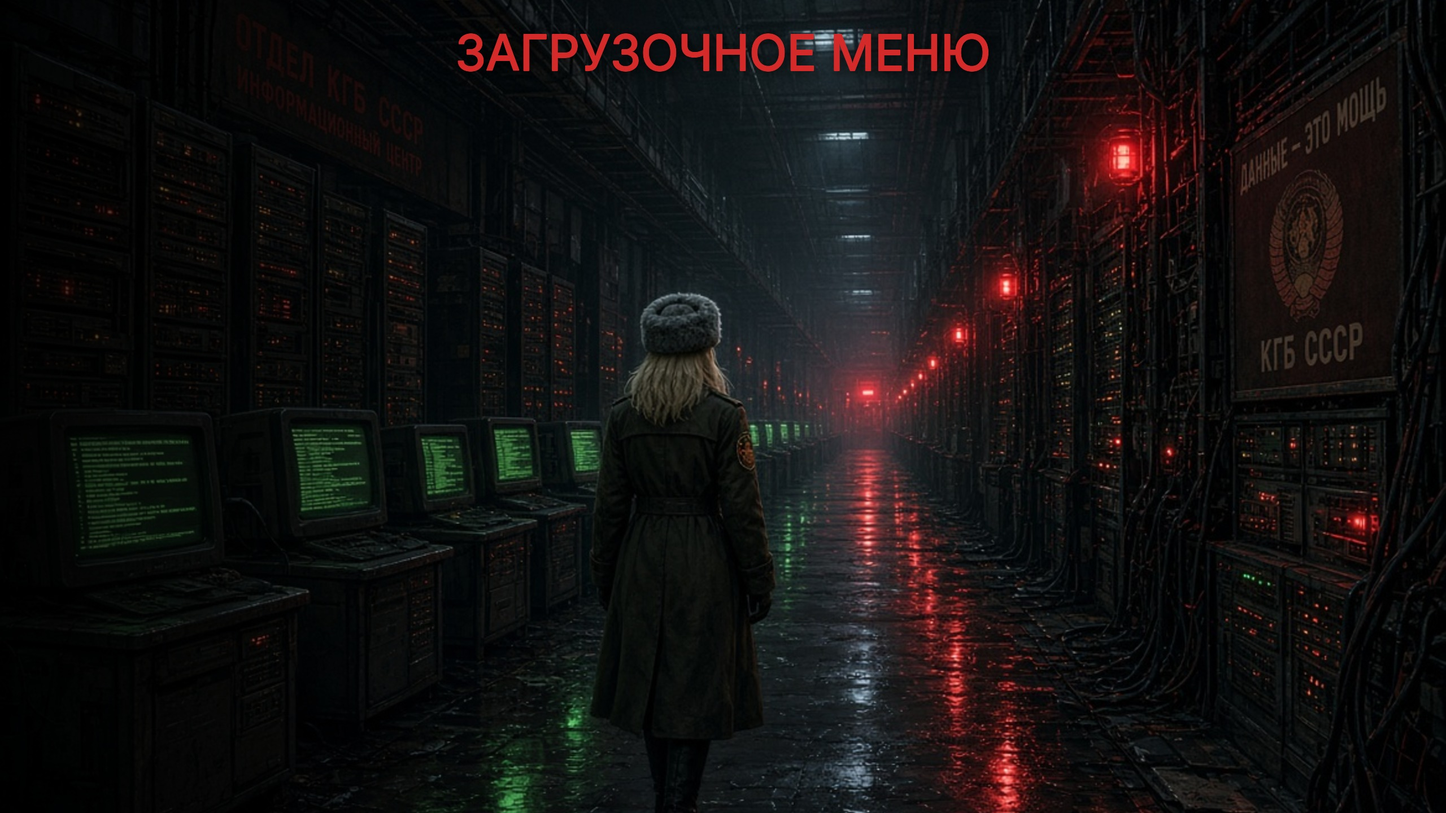
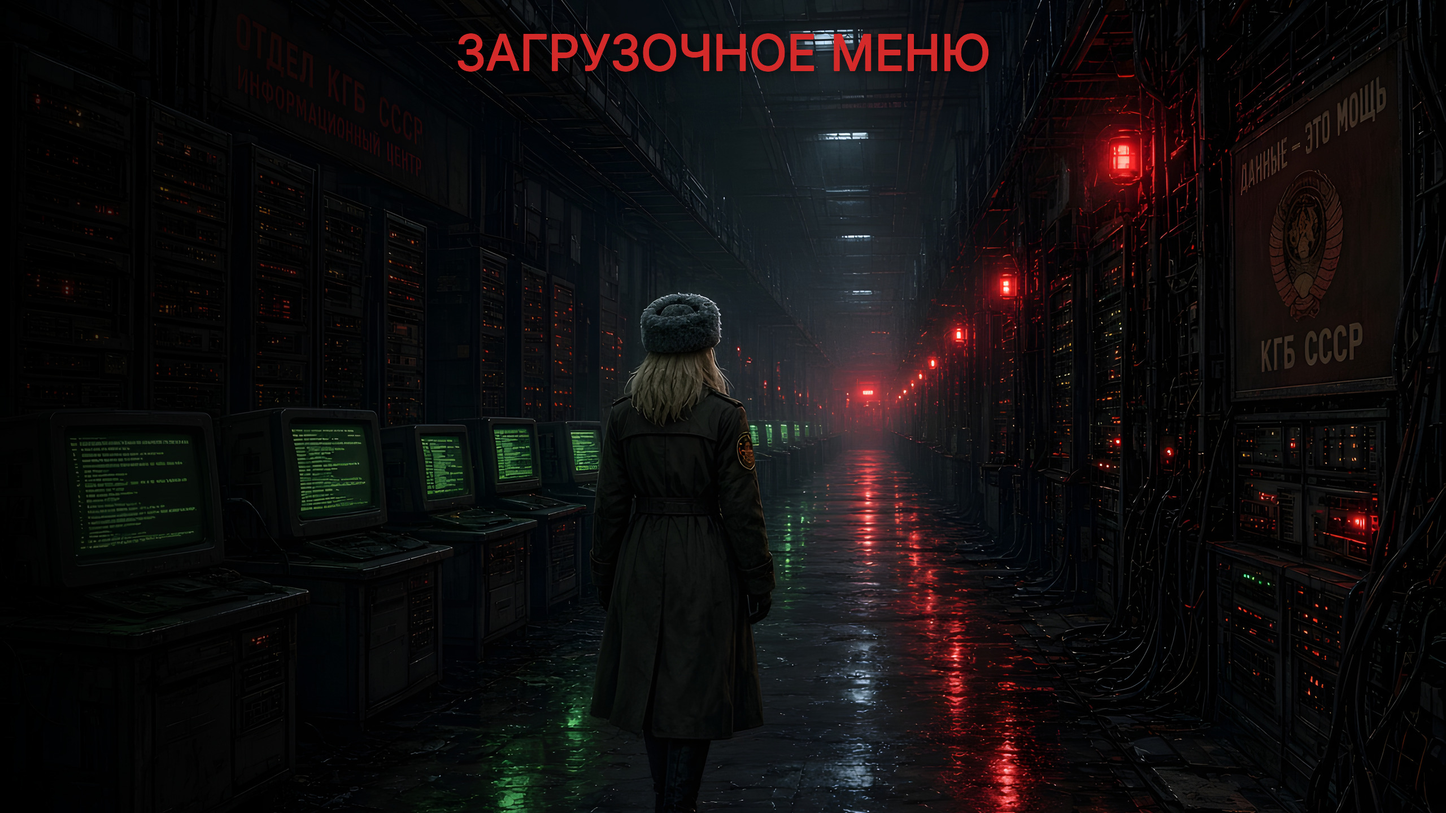
feat(limine): sharper wallpaper from a Real-ESRGAN 4x upscale of the source
The source photo is 1168 px wide, so the 2560 px wallpaper was a 2.2x
blow-up and looked soft on the 1440p screen. source-soviet_db-4x.jpg is a
Real-ESRGAN upscale (realesrgan-ncnn-vulkan-bin, model realesrgan-x4plus,
4672x3136); make-wallpaper.sh prefers it when present, so the crop now
scales down into 2560 and edges, CRT text and the sign lettering come out
crisp. Composition, darkening and title are unchanged.

diff --git a/CHANGELOGS.md b/CHANGELOGS.md
@@ -4,7 +4,7 @@
 
 Added:
 
-- `assets/limine/`: Limine boot-menu theme - KGB data-centre wallpaper with the Cyrillic title painted in (Limine's font has no Cyrillic), green CRT palette, `theme.conf` global block, `make-wallpaper.sh` to regenerate; the two commands to apply it by hand. The live ISO's pretty menu was GRUB, the installed Limine ships bare
+- `assets/limine/`: Limine boot-menu theme - KGB data-centre wallpaper with the Cyrillic title painted in (Limine's font has no Cyrillic), green CRT palette, `theme.conf` global block, `make-wallpaper.sh` to regenerate from a Real-ESRGAN 4x upscale of the source; the two commands to apply it by hand. The live ISO's pretty menu was GRUB, the installed Limine ships bare
 - `bios-logo/`: `mod-bios-logo.sh detect|build|usb` puts `LOGO.JPG` into a motherboard firmware image (finds the EDK2 Logo file, builds a same-format bitmap that fits the volume's free space, replaces it with UEFIReplace, verifies the tree is otherwise identical, prepares the FlashBack stick), plus a README with the per-vendor flash procedures and `boards.conf`. Verified on the TUF GAMING B650M-PLUS WIFI (BIOS 3886, USB BIOS FlashBack accepted the modified capsule)
 - `plymouth` preset option (`install-scripts/plymouth.sh`, `assets/plymouth/soviet/`): a Plymouth theme with the repo logo on black instead of the CachyOS watermark over the motherboard logo. `auto` acts only where plymouth is already installed and hooked (CachyOS); it never edits `HOOKS` or the kernel command line
 

diff --git a/README.md b/README.md
@@ -510,7 +510,11 @@ title, phosphor-green text matching the CRTs, 2x font scale.
 
 The title is in the picture, not in `interface_branding`, because Limine's terminal
 maps text onto a 256-glyph CP437 font and cannot show Cyrillic. `make-wallpaper.sh`
-regenerates the wallpaper from `source-soviet_db.jpg` for another resolution or title.
+regenerates the wallpaper for another resolution or title. It prefers
+`source-soviet_db-4x.jpg`, a Real-ESRGAN 4x upscale of the 1168 px original
+(`realesrgan-ncnn-vulkan-bin` from the AUR, model `realesrgan-x4plus`, seven seconds
+on the Radeon), so the 2560 px crop scales down and stays sharp instead of being a
+2.2x blow-up of the original.
 
 Applying it is two commands, done by hand on purpose (this repo never writes to a
 bootloader):
